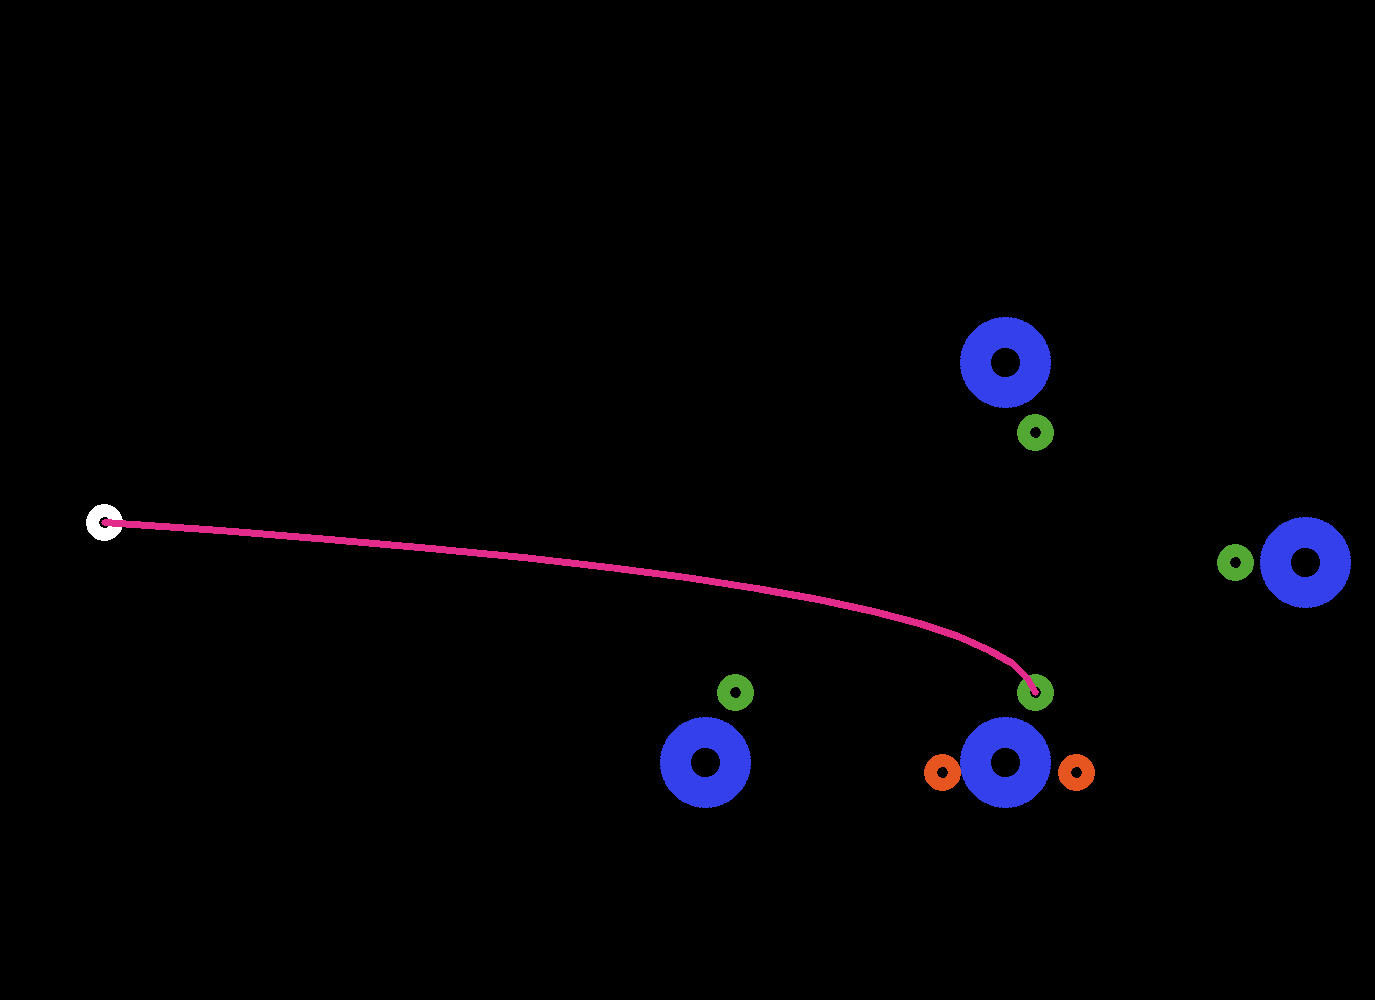
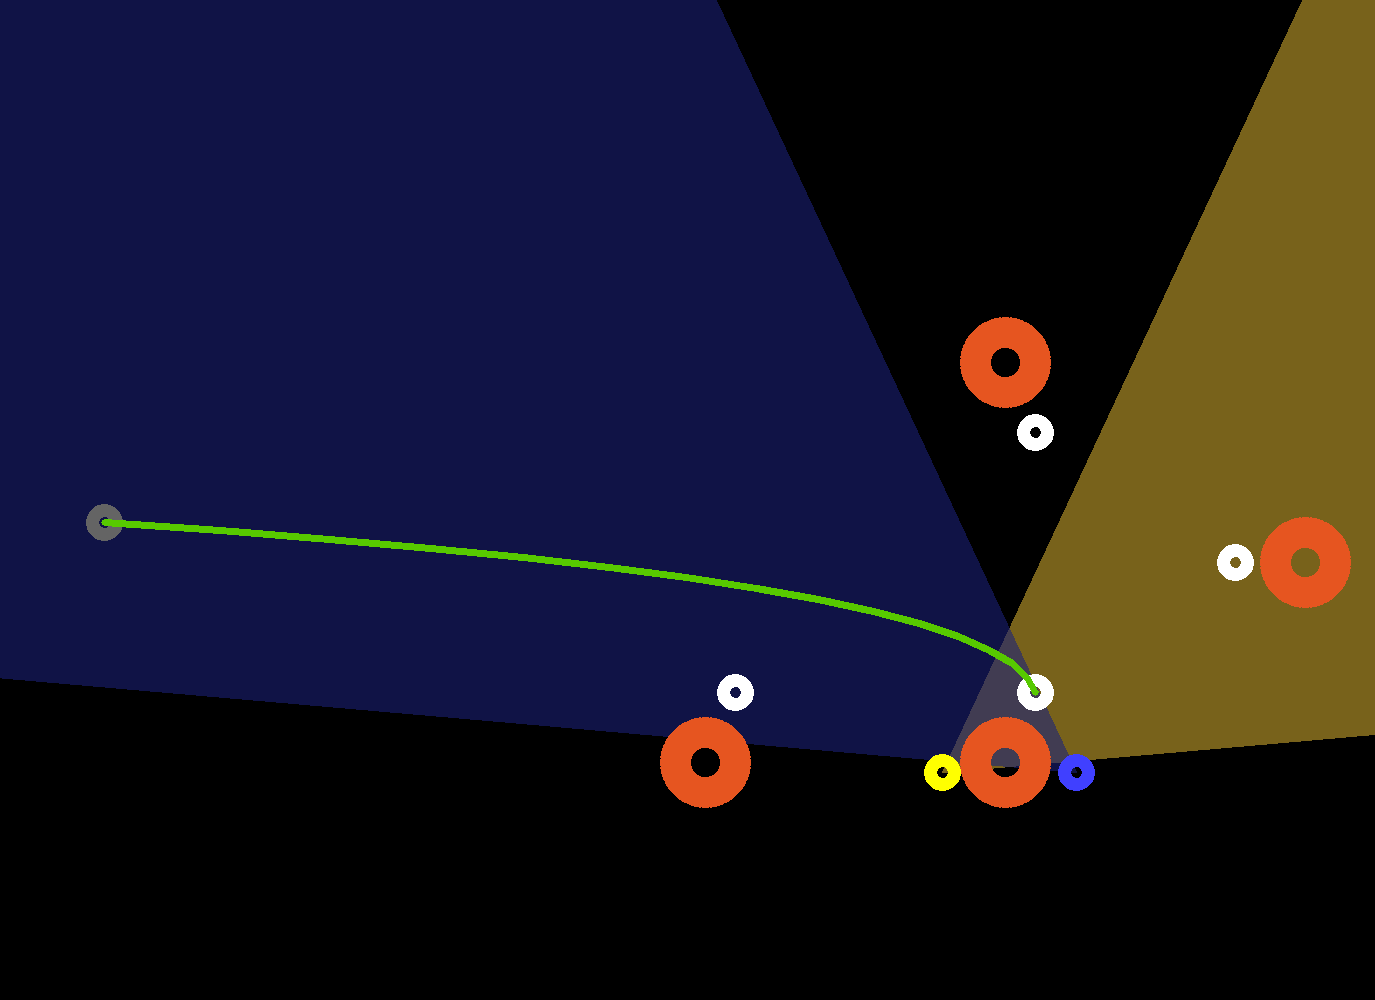
Added additional colorized visualizations of table scene for Sony checkpoint
Former-commit-id: 5e3c5a962cc5087ef4cd08da2fa77cf63a6adaeb [formerly 6d040ce03d5582c395ee0fe26c7636117958019d] [formerly 56783a4c88defbc51e3296712ce2cb7c5e644e30 [formerly ee4729b1b1614cbcb4c6f7081ae8ca2340eeef2c]]
Former-commit-id: 3129ad3e79023f2675f024431da93419f6e1c550
Former-commit-id: ec76879100c23e4a9b6a5b5256acbbbad2934ac6

diff --git a/table_path_code.py b/table_path_code.py
@@ -58,12 +58,14 @@ TYPE_UNITY_ALIGNED = 2
 generate_type = TYPE_UNITY_ALIGNED
 
 # Color options for visualization
-COLOR_TABLE = (235, 64, 52) 		# dark blue
+COLOR_TABLE = (32, 85, 230) #(235, 64, 52) 		# dark blue
 COLOR_OBSERVER = (32, 85, 230) 		# dark orange
-COLOR_FOCUS = (52, 192, 235) 		# dark yellow
-COLOR_PERIPHERAL = (178, 221, 235) 	# light yellow
-COLOR_GOAL = (50, 168, 82) 			# green
-COLOR_START = (255, 255, 255) 		# white
+COLOR_FOCUS_AWAY = (52, 192, 235) 		# dark yellow
+COLOR_PERIPHERAL_AWAY = (178, 221, 235) 	# light yellow
+COLOR_FOCUS_TOWARDS = (235, 64, 52)		# dark yellow
+COLOR_PERIPHERAL_TOWARDS = (55, 120, 191) 	# light yellow
+COLOR_GOAL = (255, 255, 255) # (50, 168, 82) 			# green
+COLOR_START = (100, 100, 100) 		# white
 
 COLOR_OBSTACLE_CLEAR = (0, 0, 0)
 COLOR_OBSTACLE_BUFFER = (100, 100, 100)
@@ -77,8 +79,12 @@ VIS_A = "VIS_A"
 VIS_B = "VIS_B"
 
 
-PATH_COLORS = [(0,255,255), (138,43,226), (255,64,64), (0,201,87)]
-VIS_CHECKLIST = [VIS_OMNI, VIS_MULTI, VIS_A, VIS_B]
+PATH_COLORS = [(138,43,226), (0,255,255), (255,64,64), (0,201,87)]
+# PATH_COLORS = [(130, 95, 135), (254, 179, 8), (55, 120, 191), (123, 178, 116)]
+COLOR_P_BACK = (0,255,255)
+COLOR_P_FACING = (255,64,64)
+# PATH_COLORS = ["red", "yellow", "blue", "green"]
+VIS_CHECKLIST = [VIS_OMNI, VIS_A, VIS_B, VIS_MULTI]
 VIS_COLOR_MAP = {}
 for i in range(len(PATH_COLORS)):
 	VIS_COLOR_MAP[VIS_CHECKLIST[i]] = PATH_COLORS[i]
@@ -175,6 +181,12 @@ def in_bounds(point):
 
 	return True
 
+def get_cost_of_segment(pos1, pos2, obstacle_map, visibility_map):
+	# time in visibility
+	  
+
+
+	return cost
 
 def get_cost_of_move(pos1, pos2, obstacle_map, visibility_map):
 	cost = 0
@@ -505,10 +517,10 @@ class Table:
 
 class Observer:
 	entity_radius = DIM_OBSERVER_RADIUS
-	draw_depth = 150
+	draw_depth = 25000
 	cone_depth = 2000
 	focus_angle = 60 / 2.0
-	peripheral_angle = 120 / 2.0
+	peripheral_angle = 160 / 2.0
 
 	orientation = 0
 
@@ -549,8 +561,8 @@ class Observer:
 		# Add center of viewpoint
 		draw_focus_a = (0, self.draw_depth)
 		draw_focus_b = (0, self.draw_depth)
-		draw_periph_a = (0, int(self.draw_depth*1.5))
-		draw_periph_b = (0, int(self.draw_depth*1.5))
+		draw_periph_a = (0, int(self.draw_depth*5))
+		draw_periph_b = (0, int(self.draw_depth*5))
 
 		draw_focus_a = rotate((0,0), draw_focus_a, focus_angle + angle)
 		draw_focus_b = rotate((0,0), draw_focus_b, -focus_angle + angle)
@@ -864,6 +876,58 @@ obs_radius = int(.125 * UNITY_SCALE_X)
 goal_radius = int(.125 * UNITY_SCALE_X)
 start_radius = int(.125 * UNITY_SCALE_X)
 
+# observers = [observers[0]]
+print(observers)
+# for obs in observers:
+if True:
+	# Draw person
+	# obs = observers[1]
+
+	# cv2.circle(obstacle_vis, obs.get_center(), obs_radius, COLOR_OBSTACLE_BUFFER, obs_radius + DIM_NAVIGATION_BUFFER)
+	# cv2.circle(obstacle_vis, obs.get_center(), obs_radius, COLOR_OBSTACLE_FULL, obs_radius)
+
+	# cv2.circle(obstacle_map, obs.get_center(), obs.get_radius(), 1, obs.get_radius() + DIM_NAVIGATION_BUFFER)
+	# cv2.circle(obstacle_map, obs.get_center(), obs.get_radius(), 1, obs.get_radius())
+
+	# Draw shortened rep for view cones
+	# cv2.fillPoly(img, obs.get_draw_field_peripheral(), COLOR_PERIPHERAL)
+	# cv2.fillPoly(img, obs.get_draw_field_focus(), COLOR_FOCUS)
+
+	overlay = img.copy()
+	# Draw shortened rep for view cones
+	# away = obs[1]
+	obs = observers[1]
+	# cv2.fillPoly(overlay, obs.get_draw_field_peripheral(), COLOR_PERIPHERAL_AWAY)
+	cv2.fillPoly(overlay, obs.get_draw_field_focus(), COLOR_FOCUS_AWAY)
+	alpha = 0.3  # Transparency factor.
+	img = cv2.addWeighted(overlay, alpha, img, 1 - alpha, 0)
+
+	obs = observers[0]
+	# cv2.fillPoly(overlay, obs.get_draw_field_peripheral(), COLOR_PERIPHERAL_TOWARDS)
+	cv2.fillPoly(overlay, obs.get_draw_field_focus(), COLOR_FOCUS_TOWARDS)
+
+	alpha = 0.3  # Transparency factor.
+	img = cv2.addWeighted(overlay, alpha, img, 1 - alpha, 0)
+	# Following line overlays transparent rectangle over the image
+	
+
+	# cone = obs.get_draw_field_focus()[0]
+	# print(cone)
+	# cone0 = cone[0]
+	# cone0 = (826, 248) #(cone0[0], cone0[1])
+	# cone1 = cone[1]
+	# cone0 = (826, 248) #(cone1[0], cone1[1])
+	# cone2 = cone[2]
+	# cone2 = (cone2[0], cone2[1])
+
+
+	# print(cone0)
+	# cv2.line(img, cone0, cone1, COLOR_FOCUS, thickness=2, lineType=8)
+	# cv2.line(img, cone0, cone2, COLOR_FOCUS, thickness=2, lineType=8)
+
+	# cone = obs.get_draw_field_peripheral()
+	# cv2.line(img, cone[0], cone[1], COLOR_PERIPHERAL, thickness=2, lineType=8)
+	# cv2.line(img, cone[0], cone[2], COLOR_PERIPHERAL, thickness=2, lineType=8)
 
 # Draw tables
 for table in tables:	
@@ -879,22 +943,13 @@ for table in tables:
 	# cv2.rectangle(obstacle_map, table.pt_top_left(), table.pt_bottom_right(), 1, table.get_radius())
 
 
+obs = observers[1]
+cv2.circle(img, obs.get_center(), obs_radius, COLOR_P_BACK, obs_radius)
+obs = observers[0]
+cv2.circle(img, obs.get_center(), obs_radius, COLOR_P_FACING, obs_radius)
 # Draw table.gets
 # Draw observer cones
-for obs in observers:
-	# Draw person
 
-	cv2.circle(img, obs.get_center(), obs_radius, COLOR_OBSERVER, obs_radius)
-
-	cv2.circle(obstacle_vis, obs.get_center(), obs_radius, COLOR_OBSTACLE_BUFFER, obs_radius + DIM_NAVIGATION_BUFFER)
-	cv2.circle(obstacle_vis, obs.get_center(), obs_radius, COLOR_OBSTACLE_FULL, obs_radius)
-
-	# cv2.circle(obstacle_map, obs.get_center(), obs.get_radius(), 1, obs.get_radius() + DIM_NAVIGATION_BUFFER)
-	# cv2.circle(obstacle_map, obs.get_center(), obs.get_radius(), 1, obs.get_radius())
-
-	# Draw shortened rep for view cones
-	# cv2.fillPoly(img, obs.get_draw_field_peripheral(), COLOR_PERIPHERAL)
-	# cv2.fillPoly(img, obs.get_draw_field_focus(), COLOR_FOCUS)
 
 	# cv2.polylines(img, obs.get_draw_field_peripheral(), COLOR_PERIPHERAL)
 	# cv2.polylines(img, obs.get_draw_field_focus(), COLOR_FOCUS)
@@ -1051,6 +1106,9 @@ if OPTION_FORCE_GENERATE_VISIBILITY:
 	# Successfully dumped pickle
 
 
+obs_i = cv2.flip(img, 0)
+cv2.imwrite(FILENAME_EXPORT_IMGS_PREFIX + 'plain_o'+ '.png', obs_i) 
+# cv2.imwrite(FILENAME_EXPORT_IMGS_PREFIX + 'plain_' + path_title + '.png', path_img) 
 
 
 # Import the visibility info for work
